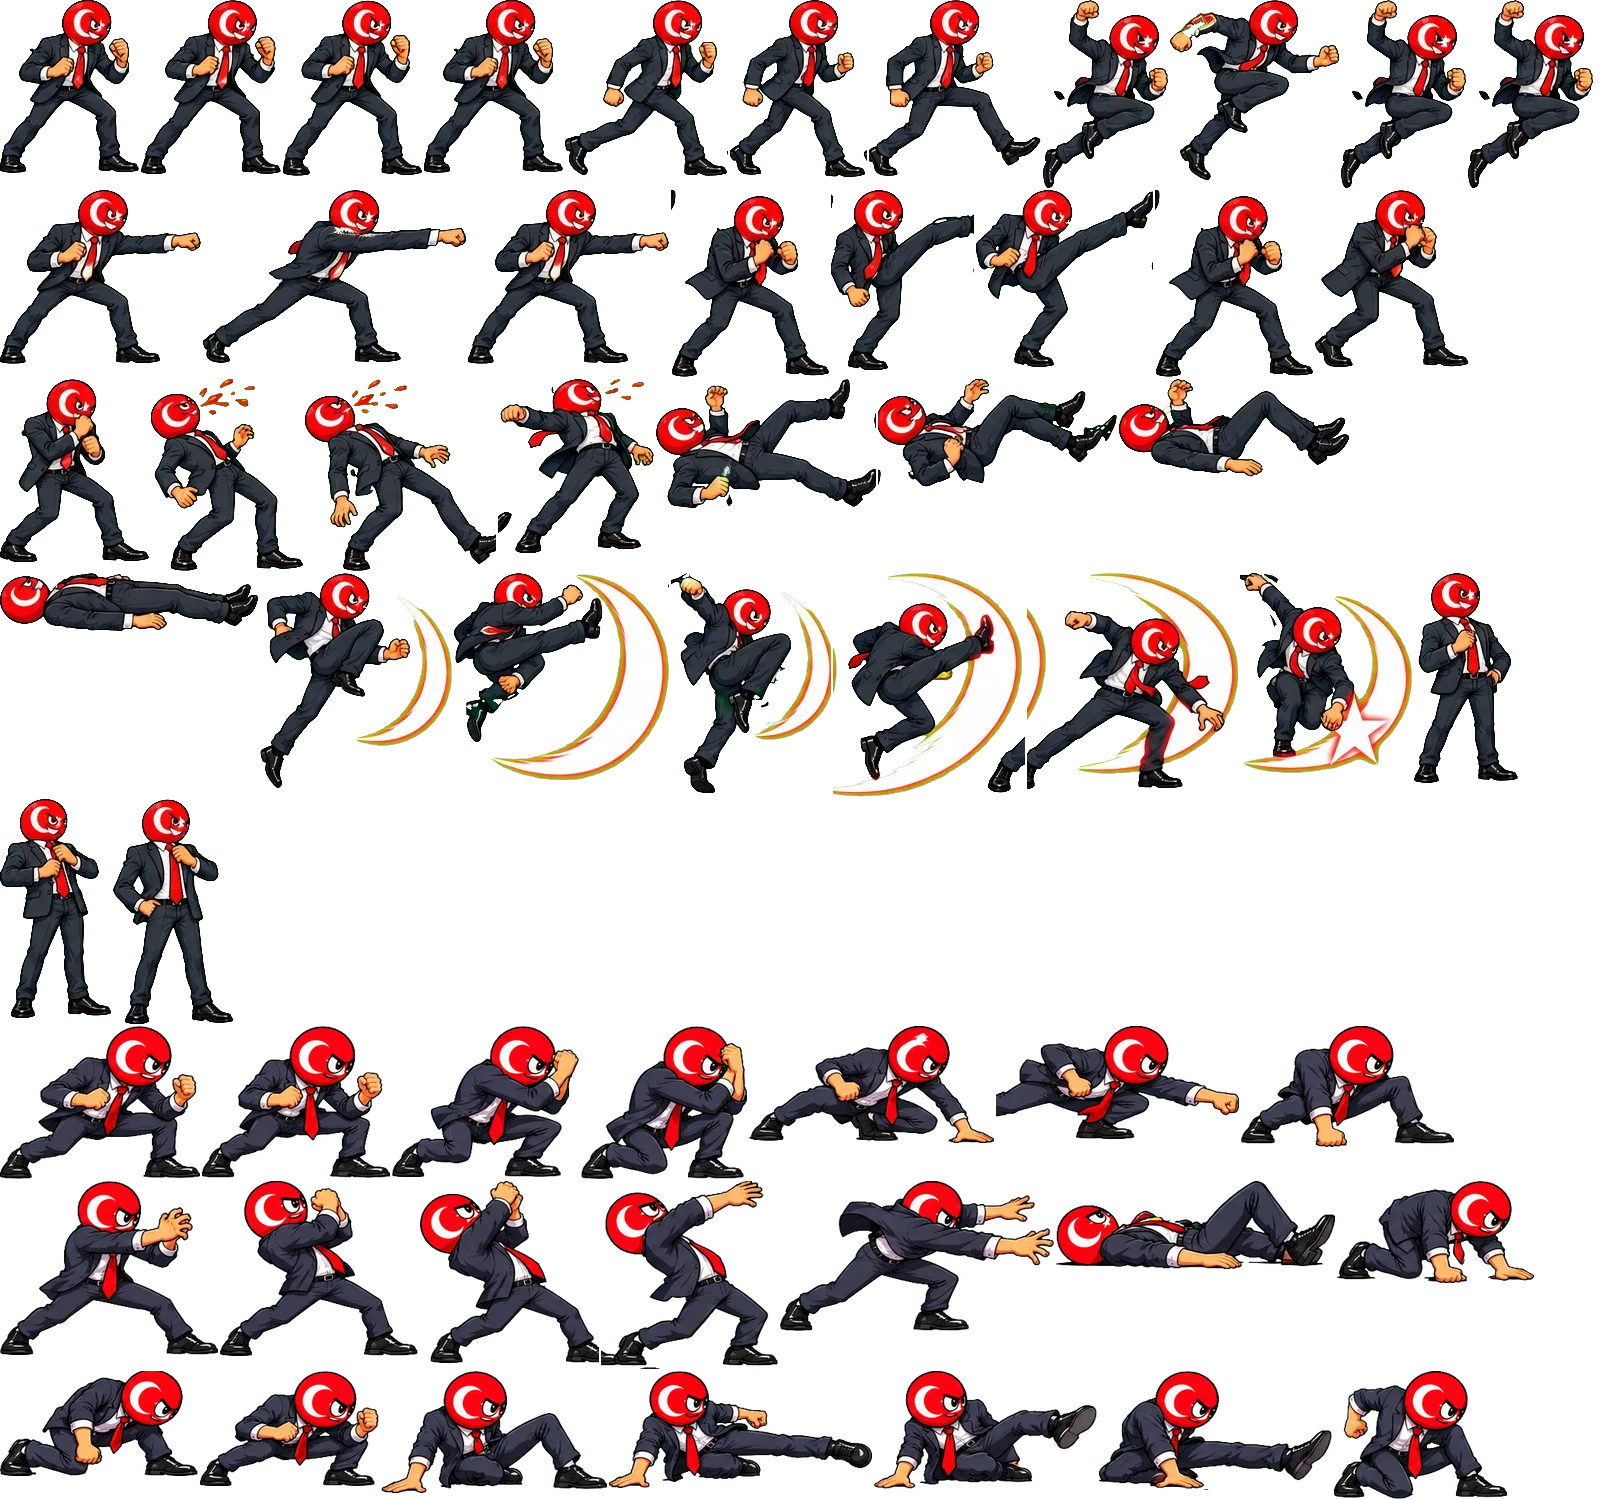
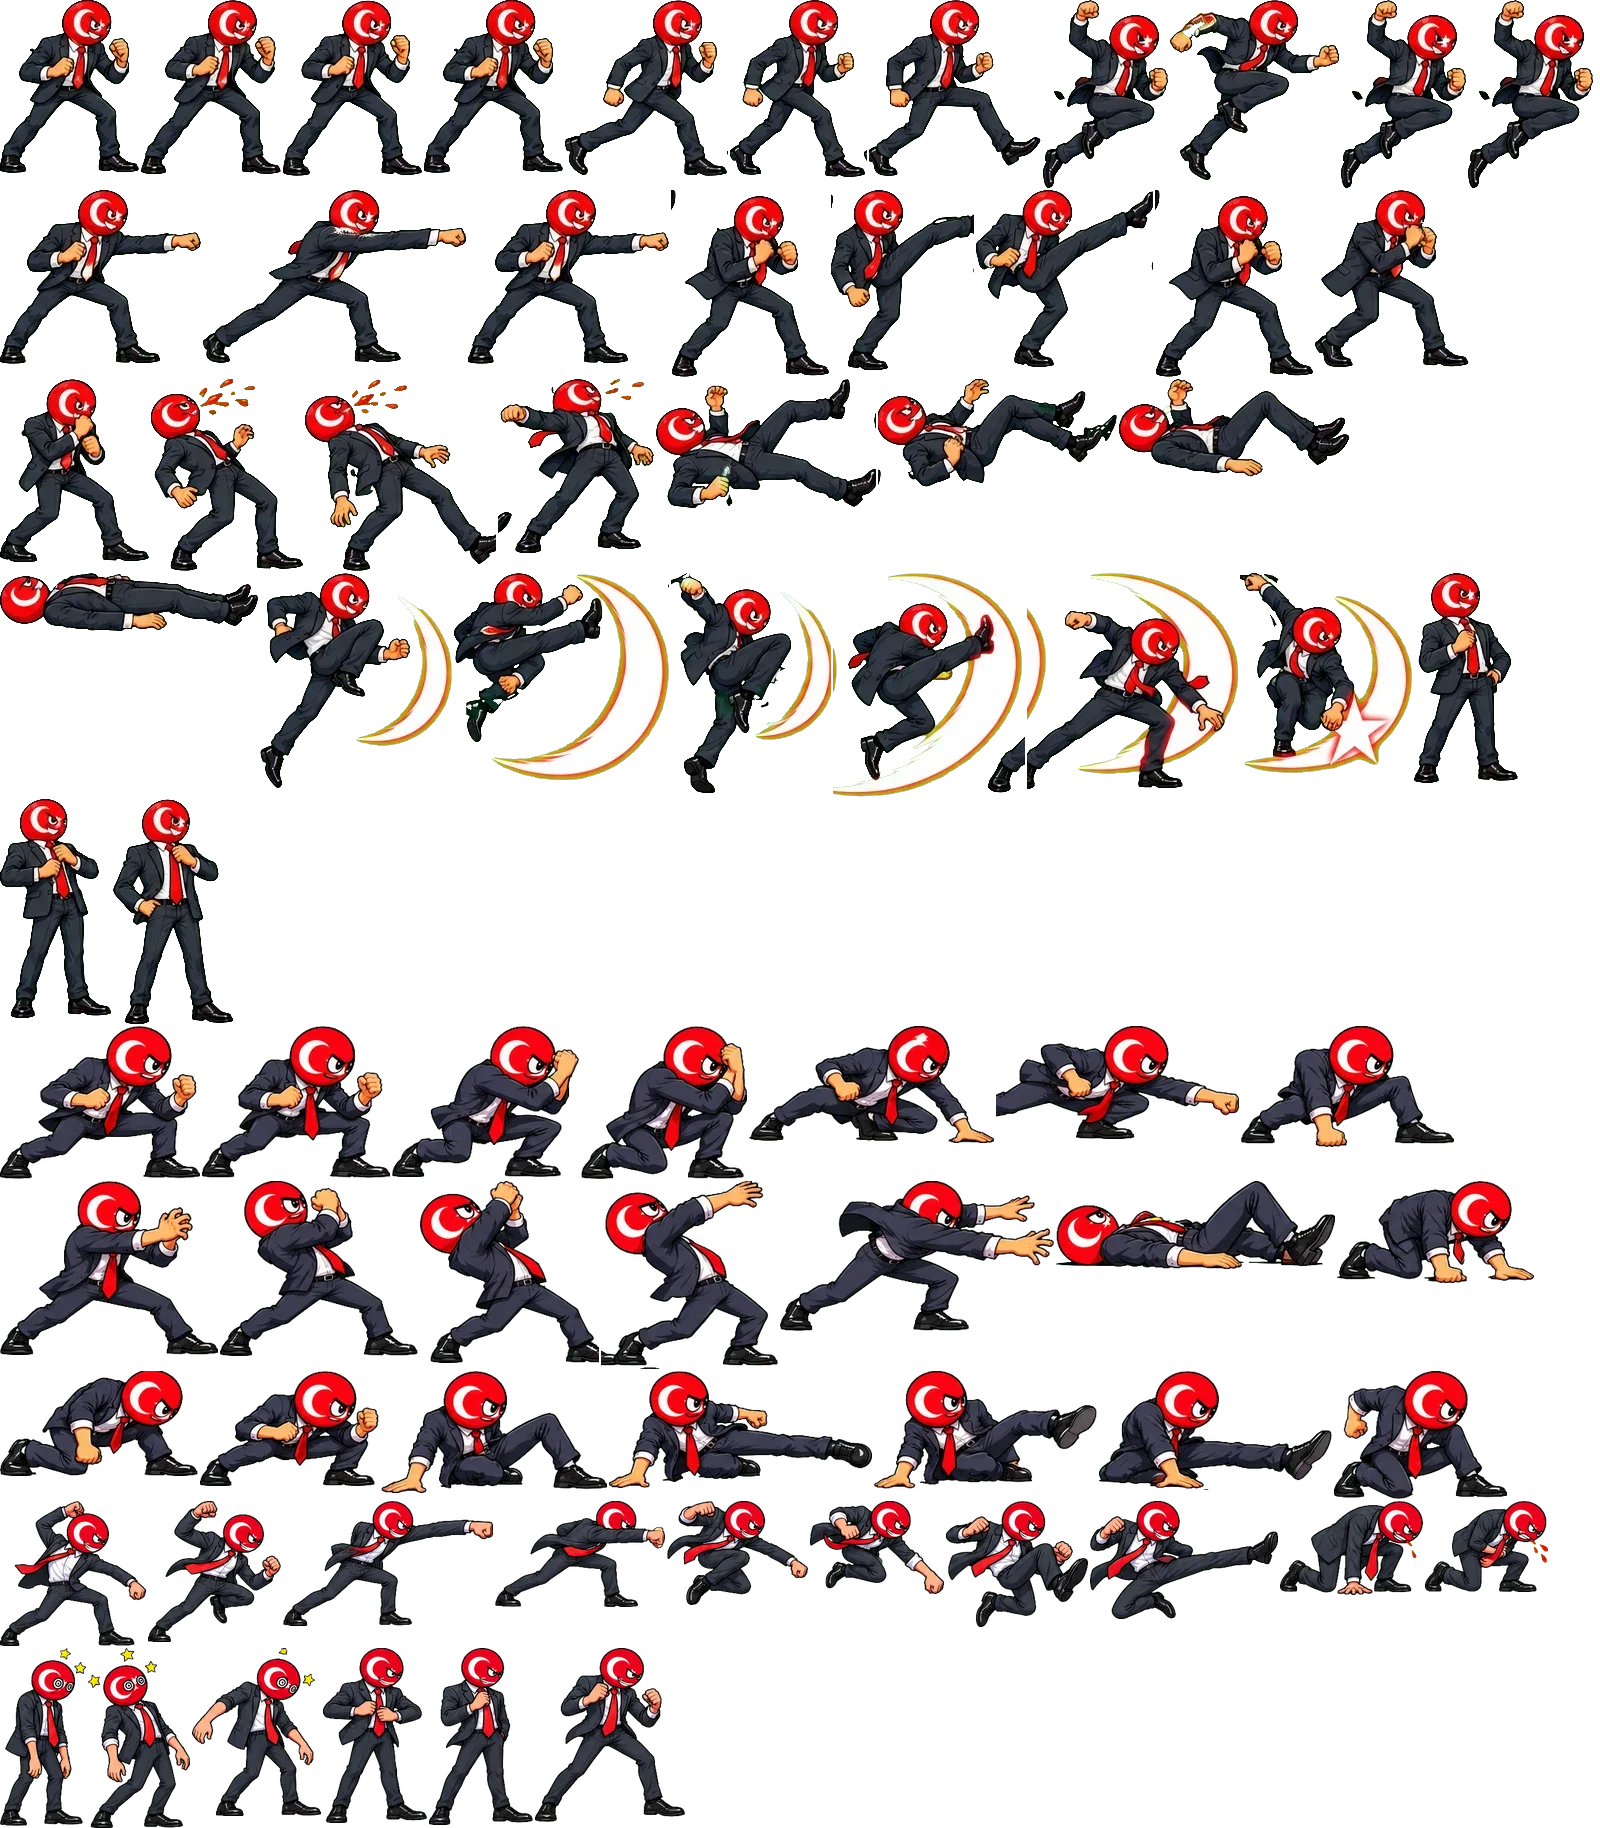
Presidents Brawl: Mister Turkey heavy punch, jump attacks, crouch hit, dizzy and entrance frames
Claude-Session: https://claude.ai/code/session_01HtMgEDxgy3YeKCDKp7REeJ

diff --git a/brawl/index.html b/brawl/index.html
@@ -585,7 +585,7 @@ const SPRITES={};
 function addSprite(id,meta,b64,scale){const img=new Image();const o={img,meta,scale,ok:false};img.onload=()=>{o.ok=true;if(window.__redrawCards)window.__redrawCards()};img.src=b64;SPRITES[id]=o}
 addSprite('usa',{"idle": [[0, 0, 165, 191, 74.1], [167, 0, 159, 189, 74.7], [328, 0, 153, 189, 71.9], [483, 0, 156, 190, 71.9]], "walk": [[641, 0, 177, 177, 81.5], [820, 0, 174, 178, 85.9], [996, 0, 169, 181, 79.5], [1167, 0, 170, 183, 82.2]], "jump": [[1339, 0, 163, 147, 84.9], [0, 193, 158, 167, 77.3], [160, 193, 168, 154, 84.4], [330, 193, 160, 148, 84.0]], "jab": [[492, 193, 176, 164, 83.5], [670, 193, 229, 163, 90.1], [901, 193, 172, 163, 82.0]], "heavy": [[1075, 193, 185, 164, 85.4], [1262, 193, 244, 160, 91.6], [0, 362, 253, 157, 95.8], [255, 362, 167, 163, 79.7]], "block": [[424, 362, 172, 194, 81.1], [598, 362, 170, 194, 80.4]], "hit": [[770, 362, 193, 192, 91.4], [965, 362, 225, 175, 148.0], [1192, 362, 235, 140, 117.5]], "ko": [[0, 558, 258, 166, 129.0], [260, 558, 260, 129, 130.0], [522, 558, 272, 95, 136.0], [796, 558, 285, 92, 142.5]], "super": [[1083, 558, 202, 196, 90.9], [1287, 558, 222, 193, 96.2], [0, 756, 239, 186, 120.8], [241, 756, 209, 218, 97.7], [452, 756, 286, 187, 98.4]], "win": [[1278, 1501, 132, 190, 60.7], [1412, 1501, 163, 200, 84.0], [0, 1703, 160, 187, 88.6]], "crouch": [[0, 976, 176, 143, 81.1], [178, 976, 172, 147, 75.4]], "cblock": [[352, 976, 166, 146, 79.0], [520, 976, 168, 143, 75.1]], "lowp": [[690, 976, 201, 128, 111.9], [893, 976, 227, 133, 126.7], [1122, 976, 268, 131, 128.5]], "grab": [[1392, 976, 172, 190, 96.2], [0, 1168, 186, 182, 71.2], [188, 1168, 220, 190, 74.2], [410, 1168, 258, 182, 115.7]], "getup": [[670, 1168, 297, 82, 134.4], [969, 1168, 229, 124, 114.4], [1200, 1168, 180, 151, 79.9]], "sweep": [[1382, 1168, 181, 142, 105.6], [0, 1360, 300, 138, 126.8], [302, 1360, 272, 138, 93.2], [576, 1360, 215, 139, 142.8]], "lkick": [[0, 1501, 132, 187, 70.2], [134, 1501, 210, 181, 71.3], [346, 1501, 142, 181, 66.4]], "kick": [[490, 1501, 167, 173, 76.9], [659, 1501, 170, 180, 80.3], [831, 1501, 228, 179, 93.5], [1061, 1501, 215, 172, 91.1]], "airp": [[0, 1892, 169, 157, 83.8], [171, 1892, 214, 148, 98.9]], "airk": [[387, 1892, 168, 176, 84.8], [557, 1892, 236, 168, 102.1]], "chit": [[795, 1892, 179, 131, 85.7], [976, 1892, 180, 129, 89.0]], "dizzy": [[1158, 1892, 182, 168, 83.6], [1342, 1892, 152, 176, 76.4], [0, 2070, 178, 171, 90.9]], "intro": [[180, 2070, 155, 190, 75.9], [337, 2070, 179, 193, 91.3], [518, 2070, 155, 189, 74.6]]},'img/usa.webp',0.74);
 addSprite('rus',{"idle": [[0, 0, 139, 152, 60.3], [141, 0, 134, 152, 59.1], [277, 0, 137, 152, 59.0], [416, 0, 126, 153, 40.9]], "walk": [[544, 0, 138, 152, 60.2], [684, 0, 136, 152, 58.6], [822, 0, 138, 153, 57.9], [962, 0, 147, 153, 67.7]], "jump": [[1111, 0, 140, 136, 75.8], [1253, 0, 142, 147, 68.6], [1397, 0, 130, 137, 64.2], [0, 155, 124, 144, 52.0]], "jab": [[126, 155, 148, 152, 60.6], [276, 155, 170, 152, 66.5], [448, 155, 153, 151, 71.2]], "block": [[338, 310, 102, 159, 46.8], [442, 310, 125, 159, 58.4]], "hit": [[569, 310, 140, 150, 79.3], [711, 310, 181, 137, 120.5], [894, 310, 175, 144, 100.4]], "ko": [[1071, 310, 214, 98, 97.4], [1287, 310, 209, 82, 93.8], [0, 478, 226, 59, 102.5], [228, 478, 226, 59, 102.5]], "super": [[400, 851, 199, 156, 100.4], [602, 478, 190, 152, 114.6], [794, 478, 168, 140, 88.2], [964, 478, 199, 166, 100.2], [1165, 478, 175, 184, 73.1], [1342, 478, 221, 181, 94.1]], "win": [[0, 664, 107, 185, 51.3], [109, 664, 103, 185, 48.0], [214, 664, 104, 185, 49.2]], "sweep": [[603, 155, 156, 135, 68.6], [761, 155, 176, 139, 76.9], [939, 155, 157, 139, 92.6], [1098, 155, 125, 140, 69.7]], "kick": [[1225, 155, 168, 153, 72.5], [1395, 155, 140, 150, 64.9], [0, 310, 130, 119, 55.9], [132, 310, 204, 166, 120.8]], "crouch": [[0, 1009, 204, 142, 88.9], [206, 1009, 213, 143, 91.6]], "cblock": [[421, 1009, 178, 135, 72.1], [601, 1009, 157, 138, 68.3]], "lowp": [[760, 1009, 242, 115, 123.5], [1004, 1009, 255, 107, 128.0], [1261, 1009, 245, 114, 135.6]], "grab": [[0, 1154, 208, 152, 125.4], [210, 1154, 171, 147, 116.8], [383, 1154, 168, 148, 98.8], [553, 1154, 278, 145, 153.5]], "getup": [[833, 1154, 280, 86, 133.8], [1115, 1154, 188, 122, 95.7], [1305, 1154, 198, 145, 87.5]]},'img/rus.webp',0.91);
-addSprite('tur',{"idle": [[0, 0, 139, 173, 66.9], [141, 0, 140, 174, 68.7], [283, 0, 139, 176, 67.0], [424, 0, 139, 173, 66.9]], "walk": [[565, 0, 163, 176, 87.3], [730, 0, 137, 177, 68.9], [869, 0, 172, 176, 70.7]], "jump": [[1043, 0, 125, 188, 66.2], [1170, 0, 169, 180, 75.5], [1341, 0, 125, 188, 66.2], [1468, 0, 125, 188, 66.2]], "jab": [[0, 190, 201, 174, 80.2], [203, 190, 263, 173, 97.6], [468, 190, 201, 174, 80.2]], "kick": [[671, 190, 158, 187, 78.6], [831, 190, 143, 180, 34.7], [976, 190, 177, 177, 56.1], [1155, 190, 158, 187, 78.6]], "block": [[1315, 190, 154, 177, 74.0], [0, 379, 149, 183, 69.4]], "hit": [[151, 379, 152, 192, 82.2], [305, 379, 191, 192, 110.1], [498, 379, 156, 174, 74.1]], "ko": [[656, 379, 220, 129, 92.4], [878, 379, 239, 108, 100.3], [1119, 379, 230, 98, 102.4], [0, 573, 258, 58, 117.5]], "super": [[260, 573, 192, 215, 13.6], [454, 573, 215, 207, 117.9], [671, 573, 160, 220, 29.6], [833, 573, 192, 224, 91.6], [1027, 573, 211, 216, 92.8], [1240, 573, 172, 200, 78.8]], "win": [[1414, 573, 104, 210, 48.7], [0, 799, 111, 219, 57.1], [113, 799, 120, 225, 63.1]], "crouch": [[0, 1026, 200, 153, 96.0], [202, 1026, 188, 152, 93.2]], "cblock": [[392, 1026, 187, 151, 80.6], [581, 1026, 166, 153, 74.7]], "lowp": [[749, 1026, 245, 117, 156.5], [996, 1026, 243, 113, 119.6], [1241, 1026, 213, 121, 111.4]], "grab": [[0, 1181, 218, 174, 121.9], [220, 1181, 198, 175, 73.7], [420, 1181, 179, 182, 55.6], [601, 1181, 177, 188, 71.7], [780, 1181, 274, 150, 151.4]], "getup": [[1056, 1181, 279, 88, 137.8], [1337, 1181, 197, 102, 101.2], [0, 1371, 198, 105, 105.6], [200, 1371, 179, 115, 102.8]], "sweep": [[381, 1371, 226, 122, 93.9], [609, 1371, 263, 117, 71.5], [874, 1371, 223, 118, 64.8], [1099, 1371, 233, 119, 85.8], [1334, 1371, 173, 128, 80.4]]},'img/tur.webp',0.94);
+addSprite('tur',{"idle": [[0, 0, 139, 173, 66.9], [141, 0, 140, 174, 68.7], [283, 0, 139, 176, 67.0], [424, 0, 139, 173, 66.9]], "walk": [[565, 0, 163, 176, 87.3], [730, 0, 137, 177, 68.9], [869, 0, 172, 176, 70.7]], "jump": [[1043, 0, 125, 188, 66.2], [1170, 0, 169, 180, 75.5], [1341, 0, 125, 188, 66.2], [1468, 0, 125, 188, 66.2]], "jab": [[0, 190, 201, 174, 80.2], [203, 190, 263, 173, 97.6], [468, 190, 201, 174, 80.2]], "kick": [[671, 190, 158, 187, 78.6], [831, 190, 143, 180, 34.7], [976, 190, 177, 177, 56.1], [1155, 190, 158, 187, 78.6]], "block": [[1315, 190, 154, 177, 74.0], [0, 379, 149, 183, 69.4]], "hit": [[151, 379, 152, 192, 82.2], [305, 379, 191, 192, 110.1], [498, 379, 156, 174, 74.1]], "ko": [[656, 379, 220, 129, 92.4], [878, 379, 239, 108, 100.3], [1119, 379, 230, 98, 102.4], [0, 573, 258, 58, 117.5]], "super": [[260, 573, 192, 215, 13.6], [454, 573, 215, 207, 117.9], [671, 573, 160, 220, 29.6], [833, 573, 192, 224, 91.6], [1027, 573, 211, 216, 92.8], [1240, 573, 172, 200, 78.8]], "win": [[1414, 573, 104, 210, 48.7], [0, 799, 111, 219, 57.1], [113, 799, 120, 225, 63.1]], "crouch": [[0, 1026, 200, 153, 96.0], [202, 1026, 188, 152, 93.2]], "cblock": [[392, 1026, 187, 151, 80.6], [581, 1026, 166, 153, 74.7]], "lowp": [[749, 1026, 245, 117, 156.5], [996, 1026, 243, 113, 119.6], [1241, 1026, 213, 121, 111.4]], "grab": [[0, 1181, 218, 174, 121.9], [220, 1181, 198, 175, 73.7], [420, 1181, 179, 182, 55.6], [601, 1181, 177, 188, 71.7], [780, 1181, 274, 150, 151.4]], "getup": [[1056, 1181, 279, 88, 137.8], [1337, 1181, 197, 102, 101.2], [0, 1371, 198, 105, 105.6], [200, 1371, 179, 115, 102.8]], "sweep": [[381, 1371, 226, 122, 93.9], [609, 1371, 263, 117, 71.5], [874, 1371, 223, 118, 64.8], [1099, 1371, 233, 119, 85.8], [1334, 1371, 173, 128, 80.4]], "heavy": [[0, 1501, 146, 145, 64.6], [148, 1501, 133, 141, 25.2], [283, 1501, 210, 125, 60.9], [495, 1501, 170, 106, 67.3]], "airp": [[667, 1501, 141, 104, 59.5], [810, 1501, 134, 93, 60.7]], "airk": [[946, 1501, 142, 126, 68.3], [1090, 1501, 188, 118, 69.2]], "chit": [[1280, 1501, 143, 94, 63.2], [1425, 1501, 123, 91, 50.8]], "dizzy": [[0, 1648, 86, 178, 36.9], [88, 1648, 102, 180, 48.0], [192, 1648, 129, 168, 72.7]], "intro": [[323, 1648, 104, 175, 50.5], [429, 1648, 104, 177, 49.0], [535, 1648, 150, 174, 73.0]]},'img/tur.webp',0.94);
 addSprite('ukr',{"idle": [[0, 0, 149, 218, 71.3], [151, 0, 147, 218, 69.4], [300, 0, 151, 213, 71.6], [453, 0, 143, 218, 65.8]], "walk": [[598, 0, 160, 233, 76.9], [760, 0, 164, 233, 80.2], [926, 0, 169, 232, 83.2], [1097, 0, 168, 233, 81.0]], "jump": [[1267, 0, 150, 170, 79.9], [1419, 0, 172, 215, 86.2], [0, 235, 130, 196, 54.5], [132, 235, 148, 183, 65.7]], "jab": [[282, 235, 169, 220, 82.6], [453, 235, 224, 221, 88.1], [679, 235, 165, 221, 80.0]], "heavy": [[846, 235, 192, 218, 95.6], [1040, 235, 233, 221, 92.3], [1275, 235, 249, 221, 97.6], [0, 458, 180, 214, 88.0]], "kick": [[182, 458, 125, 213, 50.0], [309, 458, 231, 202, 66.9], [542, 458, 239, 202, 76.3], [783, 458, 144, 204, 59.7]], "block": [[929, 458, 181, 234, 83.0], [1112, 458, 173, 235, 80.9]], "hit": [[1287, 458, 222, 213, 110.2], [0, 695, 201, 212, 95.1], [203, 695, 206, 214, 109.3]], "ko": [[411, 695, 226, 179, 98.6], [639, 695, 296, 164, 138.8], [937, 695, 304, 110, 145.5], [1243, 695, 269, 87, 123.3]], "super": [[0, 911, 210, 241, 50.2], [212, 911, 301, 289, 152.1], [515, 911, 262, 261, 73.5], [779, 911, 270, 256, 142.3], [1051, 911, 202, 255, 65.4], [1255, 911, 235, 199, 109.6]], "win": [[0, 1202, 178, 267, 86.3], [180, 1202, 171, 235, 84.3], [353, 1202, 142, 239, 67.9]], "crouch": [[0, 1471, 226, 200, 113.9], [228, 1471, 226, 200, 112.5]], "cblock": [[456, 1471, 219, 197, 102.0], [677, 1471, 214, 197, 100.2]], "lowp": [[893, 1471, 254, 174, 165.3], [1149, 1471, 333, 169, 191.6], [0, 1673, 295, 175, 149.0]], "grab": [[297, 1673, 254, 217, 151.4], [553, 1673, 236, 219, 86.3], [791, 1673, 230, 237, 68.5], [1023, 1673, 294, 200, 178.1]], "getup": [[0, 1912, 338, 115, 163.2], [340, 1912, 236, 178, 113.9], [578, 1912, 253, 189, 127.6]], "sweep": [[833, 1912, 234, 156, 140.3], [1069, 1912, 278, 153, 104.6], [0, 2103, 272, 160, 59.2], [274, 2103, 275, 160, 108.9]]},'img/ukr.webp',0.64);
 addSprite('irn',{"idle": [[0, 0, 128, 165, 62.2], [130, 0, 130, 164, 61.8], [262, 0, 125, 164, 59.2], [389, 0, 130, 164, 61.8]], "walk": [[521, 0, 125, 163, 59.7], [648, 0, 128, 164, 60.3], [778, 0, 137, 164, 61.7]], "jump": [[917, 0, 135, 162, 69.1], [1054, 0, 110, 168, 54.9], [1166, 0, 108, 160, 51.8], [1276, 0, 130, 161, 62.0]], "jab": [[1408, 0, 176, 167, 69.1], [0, 170, 202, 166, 75.8], [204, 170, 176, 167, 69.1]], "heavy": [[382, 170, 172, 166, 67.5], [556, 170, 157, 164, 62.9], [715, 170, 150, 160, 63.7], [867, 170, 177, 158, 69.9]], "kick": [[1046, 170, 166, 168, 55.1], [1214, 170, 151, 181, 51.3], [1367, 170, 146, 176, 53.7], [0, 353, 130, 163, 66.1]], "block": [[132, 353, 134, 163, 67.1], [268, 353, 122, 162, 58.5]], "hit": [[392, 353, 139, 164, 72.3], [533, 353, 160, 153, 86.8], [695, 353, 142, 161, 80.7]], "ko": [[839, 353, 198, 109, 94.3], [1039, 353, 211, 91, 96.7], [1252, 353, 199, 77, 94.9], [0, 519, 248, 66, 115.6]], "super": [[250, 519, 122, 156, 66.6], [374, 519, 232, 128, 84.0], [608, 519, 214, 117, 83.8], [824, 519, 228, 109, 95.6], [1054, 519, 225, 109, 95.6], [1281, 519, 214, 106, 66.8], [0, 677, 146, 150, 36.7]], "win": [[148, 677, 87, 166, 41.0], [237, 677, 87, 166, 40.7], [326, 677, 87, 166, 42.6]], "crouch": [[0, 845, 168, 135, 81.2], [170, 845, 159, 137, 76.5]], "cblock": [[331, 845, 158, 135, 75.5], [491, 845, 158, 136, 76.1]], "lowp": [[651, 845, 217, 108, 140.0], [870, 845, 258, 111, 161.4], [1130, 845, 182, 113, 117.4]], "grab": [[1314, 845, 192, 164, 117.8], [0, 1011, 174, 159, 72.4], [176, 1011, 169, 160, 60.6], [347, 1011, 154, 174, 83.7], [503, 1011, 254, 140, 145.1]], "getup": [[759, 1011, 254, 91, 119.1], [1015, 1011, 194, 105, 100.7], [1211, 1011, 161, 112, 89.4], [1374, 1011, 150, 113, 72.7]], "sweep": [[0, 1187, 194, 118, 88.7], [196, 1187, 234, 113, 67.0], [432, 1187, 219, 115, 56.9], [653, 1187, 217, 123, 95.2], [872, 1187, 166, 124, 84.3]]},'img/irn.webp',0.85);
 addSprite('qat',{"idle": [[0, 0, 143, 176, 68.4], [145, 0, 145, 176, 69.9], [292, 0, 149, 177, 70.6], [443, 0, 145, 176, 69.9]], "walk": [[590, 0, 157, 174, 81.0], [749, 0, 131, 175, 63.9], [882, 0, 172, 177, 76.6]], "jump": [[1056, 0, 166, 184, 77.7], [1224, 0, 108, 186, 61.5], [1334, 0, 137, 168, 71.1], [0, 188, 132, 175, 69.5]], "jab": [[134, 188, 204, 182, 74.5], [340, 188, 258, 178, 95.7], [600, 188, 204, 182, 74.5]], "heavy": [[806, 188, 191, 178, 85.8], [999, 188, 165, 178, 76.9], [1166, 188, 165, 172, 74.4], [1333, 188, 208, 163, 88.6]], "kick": [[0, 372, 177, 177, 59.4], [179, 372, 154, 194, 36.5], [335, 372, 147, 197, 44.2], [484, 372, 164, 181, 79.7]], "block": [[650, 372, 152, 180, 72.2], [804, 372, 156, 183, 72.5]], "hit": [[962, 372, 153, 165, 84.2], [1117, 372, 175, 163, 96.2], [1294, 372, 171, 167, 97.3]], "ko": [[0, 571, 218, 119, 103.9], [220, 571, 229, 129, 110.2], [451, 571, 232, 112, 110.5], [685, 571, 256, 72, 119.8]], "super": [[943, 571, 167, 167, 101.0], [1112, 571, 201, 173, 94.5], [1315, 571, 181, 174, 79.7], [0, 747, 177, 178, 64.1], [179, 747, 310, 119, 167.8], [491, 747, 210, 119, 99.1], [703, 747, 191, 165, 81.2]], "win": [[896, 747, 123, 162, 57.4], [1021, 747, 118, 155, 55.8], [1141, 747, 123, 156, 60.5]], "crouch": [[0, 927, 189, 147, 88.8], [191, 927, 190, 149, 88.6]], "cblock": [[383, 927, 194, 147, 84.6], [579, 927, 165, 147, 79.5]], "lowp": [[746, 927, 236, 113, 149.3], [984, 927, 296, 111, 172.4], [1282, 927, 229, 115, 128.7]], "grab": [[0, 1078, 202, 176, 102.0], [204, 1078, 206, 175, 82.7], [412, 1078, 187, 179, 58.3], [601, 1078, 174, 186, 83.2], [777, 1078, 267, 143, 149.9]], "getup": [[1046, 1078, 282, 95, 138.8], [1330, 1078, 204, 106, 104.8], [0, 1266, 192, 112, 105.8], [194, 1266, 186, 117, 97.3]], "sweep": [[382, 1266, 227, 124, 100.1], [611, 1266, 283, 122, 85.1], [896, 1266, 236, 116, 71.8], [1134, 1266, 232, 124, 95.6], [1368, 1266, 182, 129, 90.8]]},'img/qat.webp',0.8);
